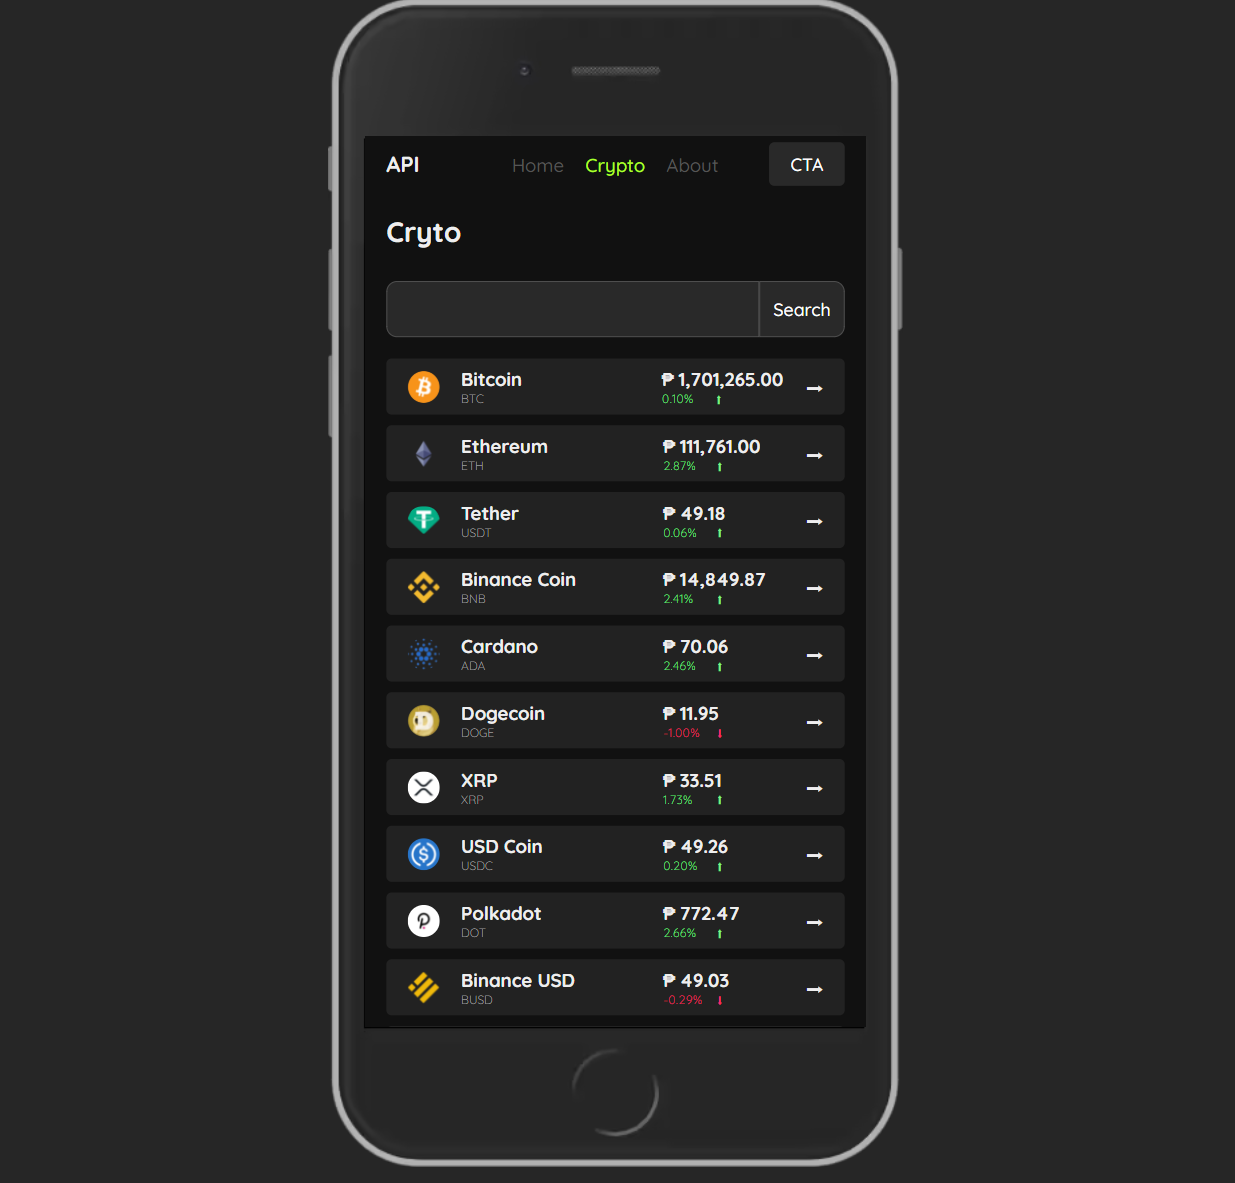
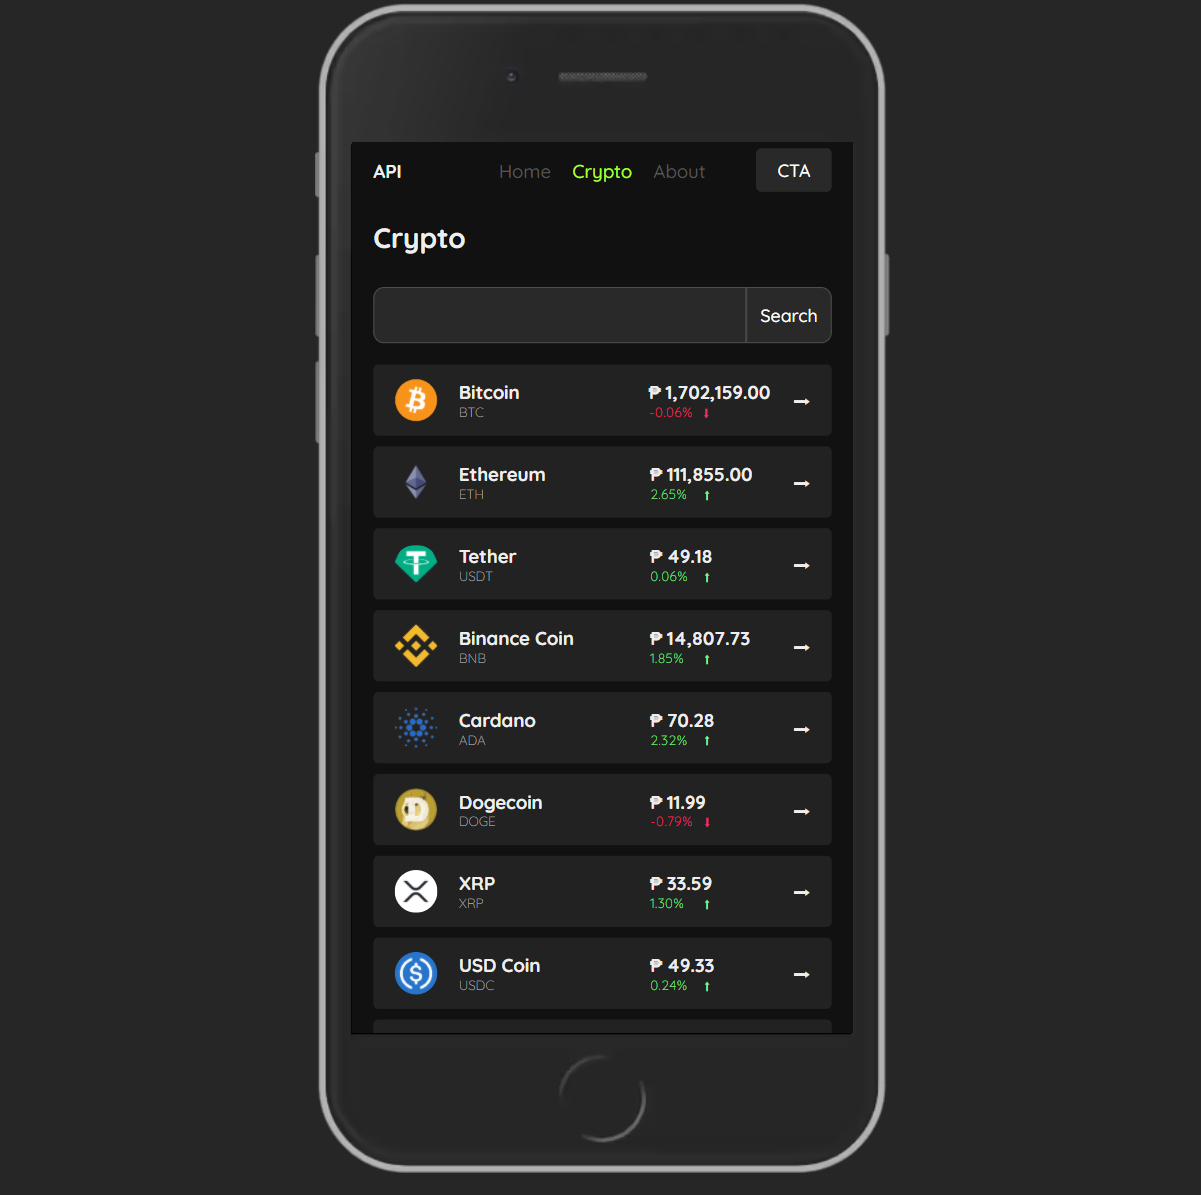
resize subhead & nav title

diff --git a/src/style/css/index.css b/src/style/css/index.css
@@ -52,7 +52,7 @@ button {
   justify-content: space-between;
   margin: 0 1rem;
 }
-.nav_header h3 {
+.nav_header h4 {
   width: 56px;
 }
 .nav_header .cta {
@@ -129,7 +129,7 @@ table td {
 
 .wrapper {
   background-color: #222;
-  min-height: calc(42px * 1.5);
+  min-height: calc(42px * 1.27);
   width: 100%;
   padding: 0 1rem;
   display: flex;
@@ -165,7 +165,7 @@ table td {
   min-width: 120px;
 }
 .wrapper .crypto-button-name .crypto-symbol {
-  font-size: xx-small;
+  font-size: x-small;
   font-weight: 200;
   color: #AAA;
 }
@@ -176,7 +176,7 @@ table td {
   justify-content: space-between;
 }
 .wrapper .crypto-button-price .price-change {
-  font-size: xx-small;
+  font-size: x-small;
   letter-spacing: 0.04em;
   font-weight: 200;
 }

diff --git a/src/style/scss/components/_crypto.scss b/src/style/scss/components/_crypto.scss
@@ -68,7 +68,7 @@ table {
 }
 .wrapper {
     background-color: #222;
-    min-height: calc(42px * 1.5);
+    min-height: calc(42px * 1.27);
     width: 100%;
     // max-width: 800px ;
     padding:  0 1rem;
@@ -111,7 +111,7 @@ table {
         min-width: 120px;
 
         .crypto-symbol{
-            font-size: xx-small;
+            font-size: x-small;
             font-weight: 200;
             color: #AAA;
         }
@@ -123,7 +123,7 @@ table {
         justify-content: space-between;
 
         .price-change{
-            font-size: xx-small;
+            font-size: x-small;
             letter-spacing: 0.04em;
             font-weight: 200;
             

diff --git a/src/pages/Crypto.js b/src/pages/Crypto.js
@@ -20,7 +20,7 @@ const Crypto = () => {
     // console.log(coins)
     return (
         <div>
-            <h2 className='crypto-home-title'>Cryto</h2>
+            <h2 className='crypto-home-title'>Crypto</h2>
             <div className='form' >
                 <input type="text" value={filter} onChange={(event) => setFilter(prev => event.target.value)}/>
                 <button >Search</button>

diff --git a/src/components/Header/Navbar.js b/src/components/Header/Navbar.js
@@ -5,7 +5,7 @@ const Navbar = () => {
     return (
         <header className='nav_header'>
             <div className="nav_header_wrapper">
-                <h3>API</h3>
+                <h4>API</h4>
                 <NavLink/>
                 <button className='cta'>CTA</button>
             </div>

diff --git a/src/style/scss/components/_header.scss b/src/style/scss/components/_header.scss
@@ -15,7 +15,7 @@
         justify-content: space-between;
         margin: 0 1rem;
     }
-    h3 {
+    h4 {
         width: 56px;
     }
     
